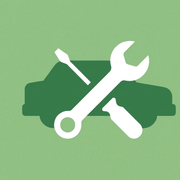
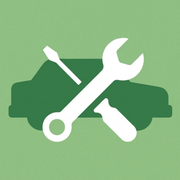
fix: zaktualizuj ikonę - auto wycentrowane

Changed region(s): [[0.0278, 0.1944, 0.8333, 0.8056], [0.8333, 0.4722, 1.0, 0.6944]]

diff --git a/sw.js b/sw.js
@@ -1,5 +1,5 @@
 // Zmień tę wersję przy każdym deployu żeby wymusić odświeżenie cache
-const CACHE_VERSION = 'v17';
+const CACHE_VERSION = 'v18';
 const CACHE_NAME = `serwis-auta-${CACHE_VERSION}`;
 const ASSETS = [
     './',
